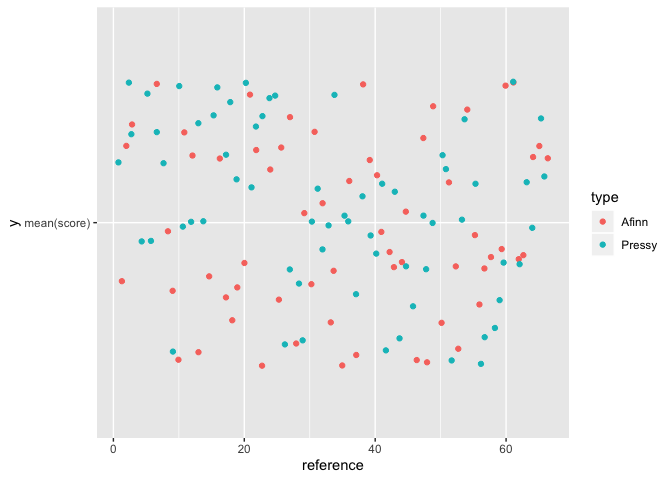
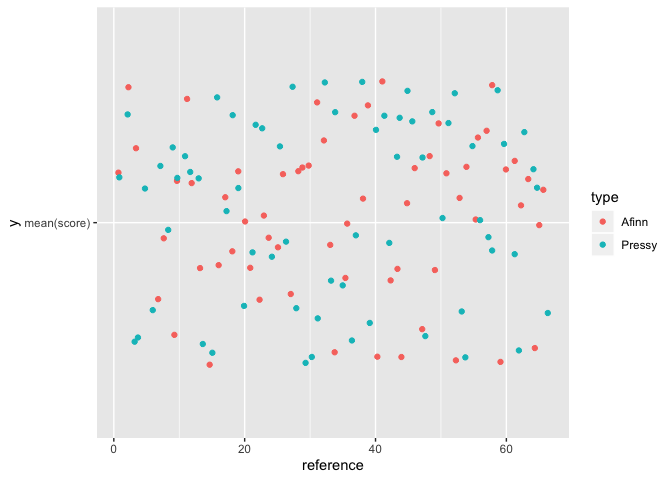
demo item brain

diff --git a/README.md b/README.md
@@ -7,8 +7,11 @@ Your names in alphabetical order with Dan
 
 Lexicons thats how, here are 5 randomly sampled words from four popular
 lexicons and then ours. Here is where we can add a whole bunch of text.
-I will use a bunch of the options to really help you see how well this
-works. \[1\]
+I will :brain: use a bunch of the options to really help you see how
+well this works. \[1\]
+
+  - amazing
+      - boop
 
 ## Wow
 
@@ -34,62 +37,65 @@ works. \[1\]
 A subset of our system.
 
     ## # A tibble: 5 x 3
-    ##   word           value type 
-    ##   <chr>          <dbl> <chr>
-    ## 1 tumor             -2 Afinn
-    ## 2 misleading        -3 Afinn
-    ## 3 son-of-a-bitch    -5 Afinn
-    ## 4 willingness        2 Afinn
-    ## 5 favorites          2 Afinn
+    ##   word        value type 
+    ##   <chr>       <dbl> <chr>
+    ## 1 commitment      2 Afinn
+    ## 2 hiding         -1 Afinn
+    ## 3 restricting    -2 Afinn
+    ## 4 sarcastic      -2 Afinn
+    ## 5 imposes        -1 Afinn
 
     ## # A tibble: 5 x 3
-    ##   word      sentiment    type 
-    ##   <chr>     <chr>        <chr>
-    ## 1 twinkle   anticipation NRC  
-    ## 2 deserve   positive     NRC  
-    ## 3 tax       sadness      NRC  
-    ## 4 aggressor negative     NRC  
-    ## 5 arid      sadness      NRC
+    ##   word       sentiment    type 
+    ##   <chr>      <chr>        <chr>
+    ## 1 complexity negative     NRC  
+    ## 2 offset     anticipation NRC  
+    ## 3 evict      sadness      NRC  
+    ## 4 parasite   fear         NRC  
+    ## 5 marry      surprise     NRC
 
     ## # A tibble: 5 x 3
-    ##   word           sentiment type 
-    ##   <chr>          <chr>     <chr>
-    ## 1 proactive      positive  Bing 
-    ## 2 precipitous    negative  Bing 
-    ## 3 disingenuously negative  Bing 
-    ## 4 worthlessly    negative  Bing 
-    ## 5 failed         negative  Bing
+    ##   word         sentiment type 
+    ##   <chr>        <chr>     <chr>
+    ## 1 magnificence positive  Bing 
+    ## 2 irritating   negative  Bing 
+    ## 3 bastards     negative  Bing 
+    ## 4 eccentricity negative  Bing 
+    ## 5 breakups     negative  Bing
 
     ## # A tibble: 5 x 3
-    ##   word           sentiment    type    
-    ##   <chr>          <chr>        <chr>   
-    ## 1 honor          positive     Loughran
-    ## 2 frustrate      negative     Loughran
-    ## 3 mandates       constraining Loughran
-    ## 4 undeterminable uncertainty  Loughran
-    ## 5 nonperformance negative     Loughran
+    ##   word            sentiment   type    
+    ##   <chr>           <chr>       <chr>   
+    ## 1 anticipate      uncertainty Loughran
+    ## 2 monopolize      negative    Loughran
+    ## 3 probationers    litigious   Loughran
+    ## 4 distinctiveness positive    Loughran
+    ## 5 sued            negative    Loughran
 
     ## # A tibble: 5 x 5
-    ##   word     president score occassion                        type  
-    ##   <chr>    <chr>     <dbl> <chr>                            <chr> 
-    ## 1 nation's obama         2 Selma                            pressy
-    ## 2 were     obama        -1 SOTU_15                          pressy
-    ## 3 protect  obama         3 SOTU_15                          pressy
-    ## 4 tragedy  obama        -5 Arizona Shooting Memorial (2011) pressy
-    ## 5 sooting  obama        -5 Arizona Shooting Memorial (2011) pressy
+    ##   word    president score occassion                 type  
+    ##   <chr>   <chr>     <dbl> <chr>                     <chr> 
+    ## 1 moral   obama         2 Selma                     pressy
+    ## 2 serve   obama         1 Usama Bin Laden (2011)    pressy
+    ## 3 economy obama         3 SOTU                      pressy
+    ## 4 will    obama         3 SOTU_15                   pressy
+    ## 5 forget  obama        -1 Immigration Reform (2013) pressy
 
-| word           | value | type  |
-| :------------- | ----: | :---- |
-| tumor          |   \-2 | Afinn |
-| misleading     |   \-3 | Afinn |
-| son-of-a-bitch |   \-5 | Afinn |
+| word        | value | type  |
+| :---------- | ----: | :---- |
+| commitment  |     2 | Afinn |
+| hiding      |   \-1 | Afinn |
+| restricting |   \-2 | Afinn |
 
 A subset of our system.
 
-| word    | sentiment    |
-| :------ | :----------- |
-| twinkle | anticipation |
-| deserve | positive     |
+| word       | sentiment    |
+| :--------- | :----------- |
+| complexity | negative     |
+| offset     | anticipation |
+| evict      | sadness      |
+| parasite   | fear         |
+| marry      | surprise     |
 
 A subset of our system.
 
@@ -98,7 +104,7 @@ A subset of our system.
 Here is the big plot that loos super
 messy.
 
-![](README_files/figure-gfm/pressure-1.png)<!-- -->![](README_files/figure-gfm/pressure-2.png)<!-- -->
+![](README_files/figure-gfm/pressure-1.png)<!-- -->![](README_files/figure-gfm/pressure-2.png)<!-- -->![](https://i.kym-cdn.com/photos/images/newsfeed/000/598/653/75f.jpg)<!-- -->
 
 And it is clear that this is a graphic that says some
 stuff.
@@ -114,4 +120,5 @@ Here is a random side note. As you may know, I love this stuff.
 Values of under zero indicate that our analysis was substantially more
 positive than Afinn
 
-1.  Noop norp zorp
+1.  [Obama’s
+    Farewell](https://www.presidency.ucsb.edu/documents/farewell-address-the-nation-from-chicago-illinois)
